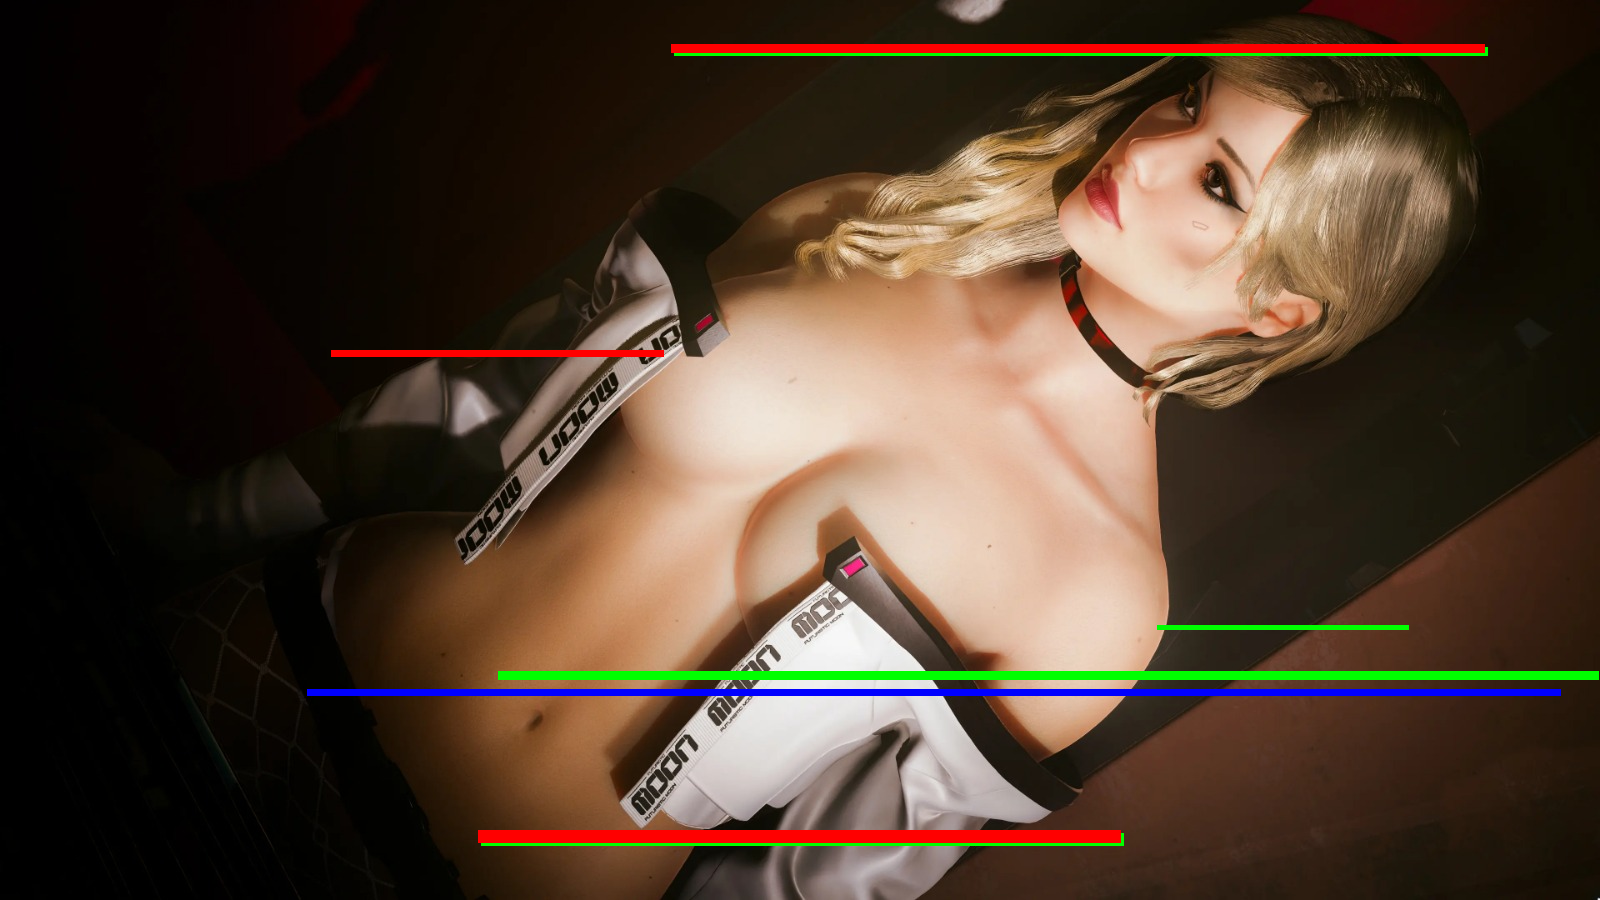
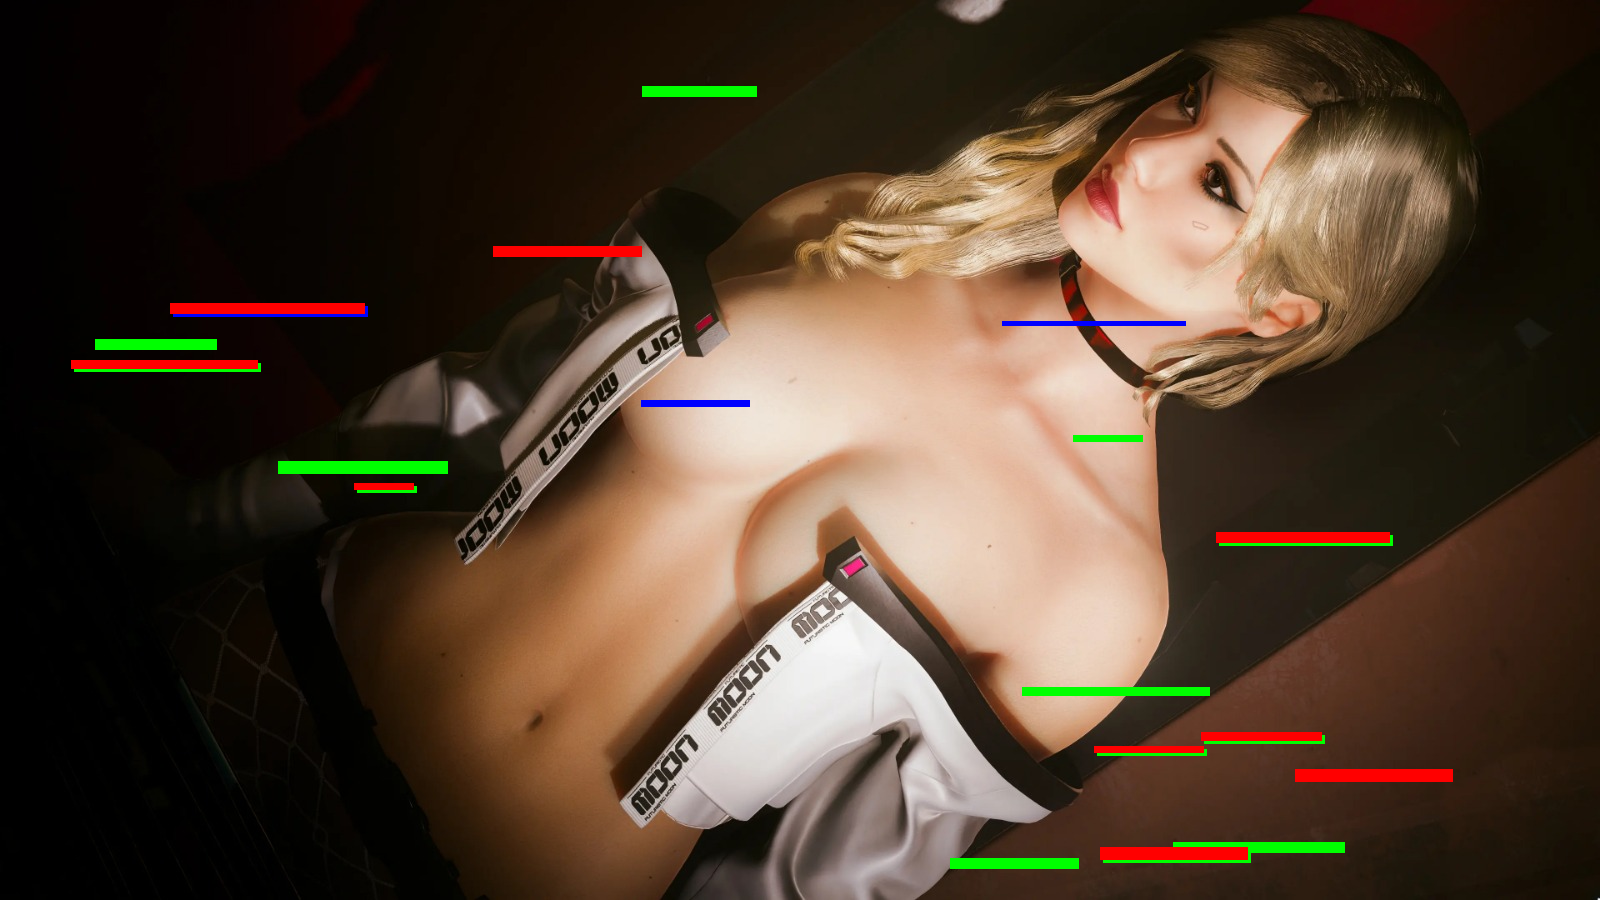
Still needs to blend in

diff --git a/main.cpp b/main.cpp
@@ -44,7 +44,6 @@ struct glitchEffect{
     int thiccness;
     int endPoint;
     int R, G, B;
-
 };
 
 int main()
@@ -58,15 +57,17 @@ int main()
         return 1;
     }
 
-    int lines = 10;
+    const int lines = 20;
+    const int maxLength = 200;
     std::vector<glitchEffect> effects;
     
     for(size_t i = 0; i < lines; ++i)
     {
         int chosenLine = getRandomInt(10, 890);
         int startingPoint = getRandomInt(10, 1580);
-        int reminaing = width - startingPoint;
-        int length = getRandomInt(std::min(50, reminaing), std::max(50, reminaing));
+        int remaining = width - startingPoint;
+        remaining = std::min(remaining, maxLength);
+        int length = getRandomInt(std::min(50, remaining), std::max(50, remaining));
         int endPoint = length + startingPoint;
         int thiccness = getRandomInt(2, 6);
         const auto& [R, G, B] = getRandomColor();
@@ -74,8 +75,8 @@ int main()
         effects.emplace_back(chosenLine, startingPoint, length, thiccness, endPoint, R, G, B);
     }
     
-    int offsetGreen = 3;
-    int offsetBlue = 3;
+    const int offsetGreen = 3;
+    const int offsetBlue = 3;
 
 
     for (int y = 0; y < height; ++y)
